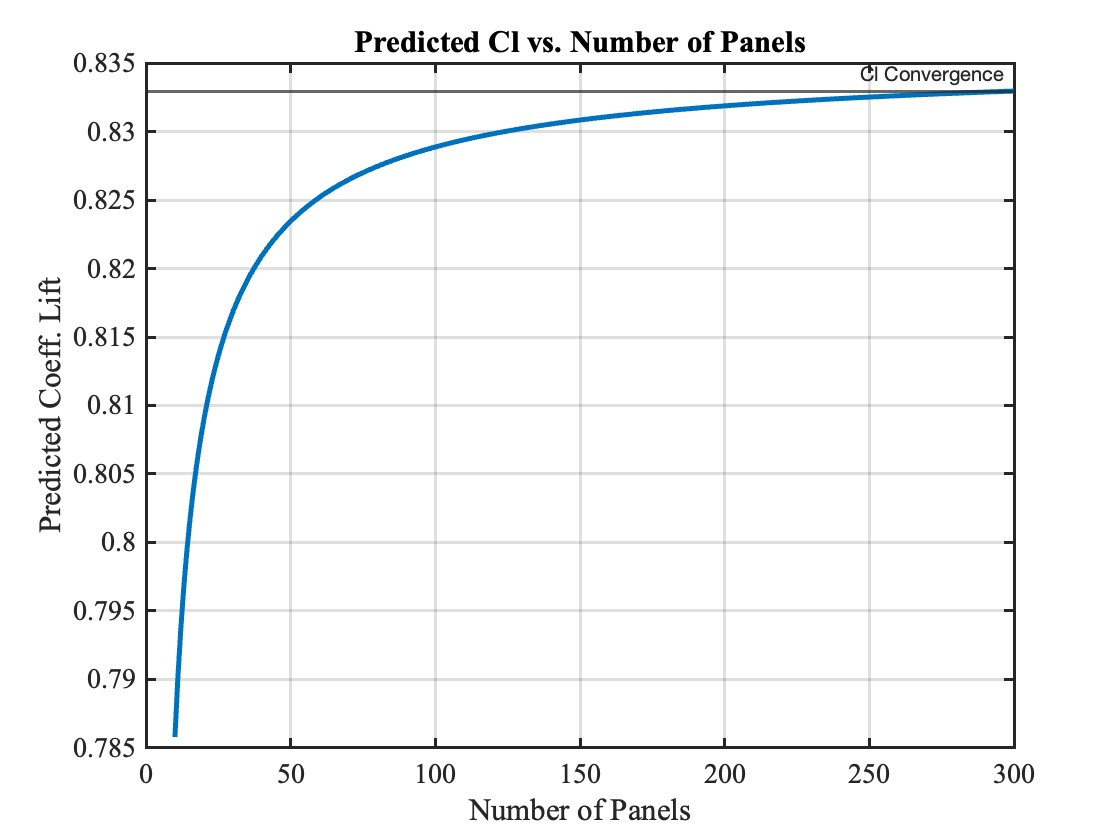
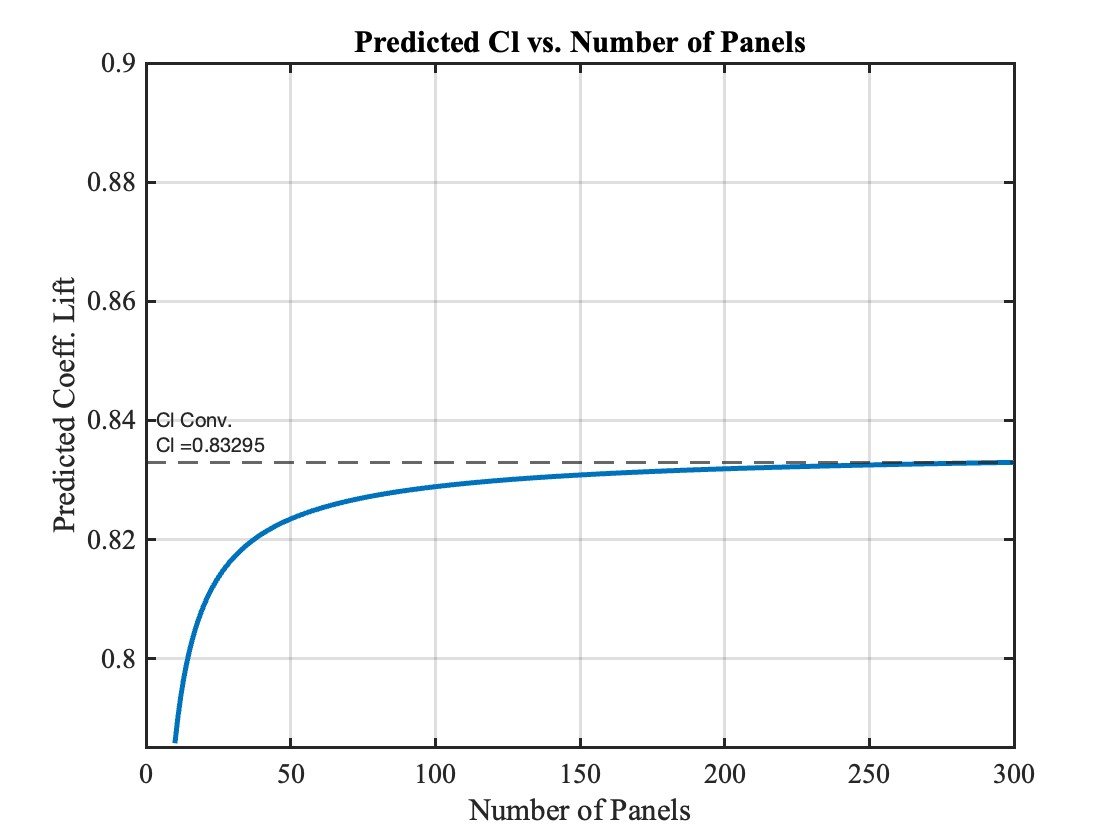
some plot fixes

diff --git a/mainDriver.m b/mainDriver.m
@@ -47,14 +47,16 @@ cl = zeros(length(numPanels),1);
 % looping through panels and getting corresponding cl 
 for i = 1: length(numPanels)
 
+    % function call to airfoilGen with NACA0012 info
 [XB2,YB2] = airfoilGen(m2,p2,t2,c2,numPanels(i),'0012',0);
 
 % function call to vortex panel to 
 [cl(i)] = Vortex_Panel(XB2,YB2,alpha);
 end
 
+% max CL from cl vs. num panels
 CL_Max = max(cl);
-
+Clstr = strcat('Cl = ',num2str(CL_Max));
 
 
 % plotting cl vs. number of panels 
@@ -62,8 +64,8 @@ figure();
 plot(numPanels,cl);
 xlabel('Number of Panels');
 ylabel('Predicted Coeff. Lift');
-yline(CL_Max,'-','Cl Convergence',LineWidth=1.5);
-% ylim([.7,1]);
+yline(CL_Max,'--',{'Cl Conv.',Clstr},LineWidth=1.5,LabelHorizontalAlignment='left');
+ylim([.785,.9]);
 title('Predicted Cl vs. Number of Panels');
 
 
